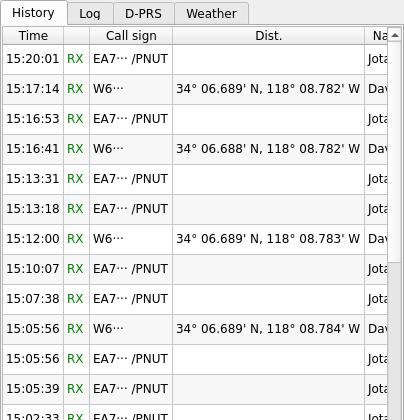
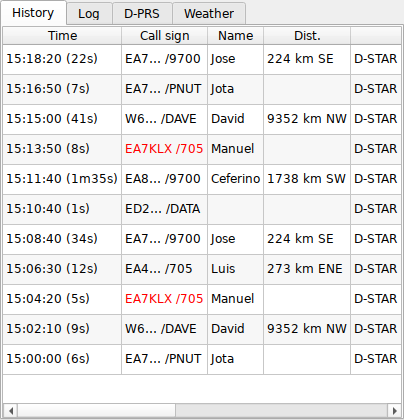
Website: history columns and direction arrow in the manual, new history screenshots, 0.5.4 changelog

diff --git a/website/site/es/manual.html b/website/site/es/manual.html
@@ -143,7 +143,7 @@
     <p>La pantalla negra muestra, de arriba abajo:</p>
     <ul>
       <li><strong>El reflector</strong>: nombre, descripción, si está en línea, cuántos nodos tiene conectados y el estado del enlace.</li>
-      <li><strong>La estación en el aire</strong>, o la última que se oyó. Muestra el indicativo, el nombre y la localidad de radioid.net, y el mensaje y la duración de la pasada. Si la estación manda su posición D-PRS, un recuadro muestra la distancia y el rumbo desde tu posición.</li>
+      <li><strong>La estación en el aire</strong>, o la última que se oyó. Muestra el indicativo, el nombre y la localidad de radioid.net, y el mensaje y la duración de la pasada. Si la estación manda su posición D-PRS, un recuadro muestra la distancia y el rumbo desde tu posición, con una flecha que apunta hacia la estación (el norte arriba). Si la última pasada es tuya, el recuadro muestra un círculo con una cruz y <em>MY</em>.</li>
       <li><strong>Últimos oídos en el reflector</strong>: las últimas estaciones, según el dashboard del reflector o tu histórico.</li>
       <li>El pie muestra tu indicativo, tu localizador (si la radio conoce tu posición), si envías D-PRS y la hora.</li>
     </ul>
@@ -176,7 +176,7 @@
 
     <h2 id="historico">Histórico y log</h2>
     <figure><img src="/img/es-tab-history.png" width="404" height="420" alt="Pestaña Histórico" loading="lazy"><figcaption>La pestaña Histórico</figcaption></figure>
-    <p>La pestaña <strong>Histórico</strong> recoge cada pasada, recibida (RX) o transmitida (TX): hora, indicativo, distancia, nombre, reflector, duración, mensaje y localidad. Si el nombre o el mensaje llegan cuando la pasada ya ha terminado, se completan en su fila. <em>Histórico › Vaciar histórico…</em> lo borra.</p>
+    <p>La pestaña <strong>Histórico</strong> recoge cada pasada, recibida o transmitida. Las columnas son hora (con la duración de la pasada entre paréntesis), indicativo, nombre, distancia, reflector, localidad y mensaje. Tus propias pasadas tienen el indicativo en rojo. Si el nombre o el mensaje llegan cuando la pasada ya ha terminado, se completan en su fila. <em>Histórico › Vaciar histórico…</em> lo borra.</p>
     <p>La pestaña <strong>Log</strong> cuenta lo que va haciendo la aplicación: conexiones, enlaces y errores. <em>Radio › Registrar CI-V de RX/TX en el log</em> añade el tráfico CI-V en bruto, que viene bien para informar de un problema.</p>
 
     <h2 id="dprs">D-PRS y meteo</h2>

diff --git a/website/site/manual.html b/website/site/manual.html
@@ -143,7 +143,7 @@
     <p>The black screen shows, from top to bottom:</p>
     <ul>
       <li><strong>The reflector</strong>: name, description, whether it is online, the number of connected nodes and the link state.</li>
-      <li><strong>The station on the air</strong>, or the last one heard. It shows the call sign, the name and location from radioid.net, and the over's message and duration. When the station sends a D-PRS position, a box shows the distance and bearing from you.</li>
+      <li><strong>The station on the air</strong>, or the last one heard. It shows the call sign, the name and location from radioid.net, and the over's message and duration. When the station sends a D-PRS position, a box shows the distance and bearing from you, with an arrow pointing towards the station (north up). When the last over is yours, the box shows a circle with a cross and <em>MY</em>.</li>
       <li><strong>Last heard on the reflector</strong>: the latest stations, from the reflector's dashboard or from your history.</li>
       <li>The footer shows your call sign, your locator (when the radio knows your position), whether you send D-PRS, and the clock.</li>
     </ul>
@@ -176,7 +176,7 @@
 
     <h2 id="history">History and log</h2>
     <figure><img src="/img/en-tab-history.png" width="404" height="420" alt="History tab" loading="lazy"><figcaption>The History tab</figcaption></figure>
-    <p>The <strong>History</strong> tab lists every over, received (RX) and transmitted (TX): time, call sign, distance, name, reflector, duration, message and location. A name or message that arrives after the over has ended is filled in on its row. <em>History › Clear history…</em> deletes it.</p>
+    <p>The <strong>History</strong> tab lists every over, received and transmitted. The columns are time (with the over's duration in brackets), call sign, name, distance, reflector, location and message. Your own overs have the call sign in red. A name or message that arrives after the over has ended is filled in on its row. <em>History › Clear history…</em> deletes it.</p>
     <p>The <strong>Log</strong> tab shows what the application is doing: connections, links, errors. <em>Radio › Log RX/TX CI-V frames</em> adds the raw CI-V traffic, which is useful when reporting a problem.</p>
 
     <h2 id="dprs">D-PRS and weather</h2>

diff --git a/website/site/es/changelog.html b/website/site/es/changelog.html
@@ -28,6 +28,13 @@
 <main class="wrap changes">
   <h1>Cambios</h1>
   <p class="lead">Novedades y correcciones de cada versión. Los ficheros de cada una están en <a href="https://github.com/manuel-alcocer/qdstar/releases">las releases de GitHub</a>.</p>
+  <section class="release" id="v0.5.4">
+    <h2>0.5.4 <time datetime="2026-09-27">2026-09-27</time></h2>
+    <ul>
+      <li>Histórico: sin columna TX/RX; tus propias pasadas tienen el indicativo en rojo. Nuevo orden de columnas: hora (con la duración entre paréntesis), indicativo, nombre, distancia, reflector, localidad y mensaje.</li>
+      <li>Pantalla: el recuadro de distancia tiene una flecha que apunta hacia la estación (el norte arriba). Si la última pasada es tuya, muestra un círculo con una cruz y <em>MY</em>.</li>
+    </ul>
+  </section>
   <section class="release" id="v0.5.3">
     <h2>0.5.3 <time datetime="2026-09-27">2026-09-27</time></h2>
     <ul>

diff --git a/website/site/changelog.html b/website/site/changelog.html
@@ -28,6 +28,13 @@
 <main class="wrap changes">
   <h1>Changelog</h1>
   <p class="lead">What is new and fixed in each version. The files of every version are on <a href="https://github.com/manuel-alcocer/qdstar/releases">GitHub releases</a>.</p>
+  <section class="release" id="v0.5.4">
+    <h2>0.5.4 <time datetime="2026-09-27">2026-09-27</time></h2>
+    <ul>
+      <li>History: no TX/RX column; your own overs have the call sign in red. New column order: time (with the duration in brackets), call sign, name, distance, reflector, location and message.</li>
+      <li>Screen: the distance box has an arrow pointing towards the station (north up). When the last over is yours, it shows a circle with a cross and <em>MY</em>.</li>
+    </ul>
+  </section>
   <section class="release" id="v0.5.3">
     <h2>0.5.3 <time datetime="2026-09-27">2026-09-27</time></h2>
     <ul>
